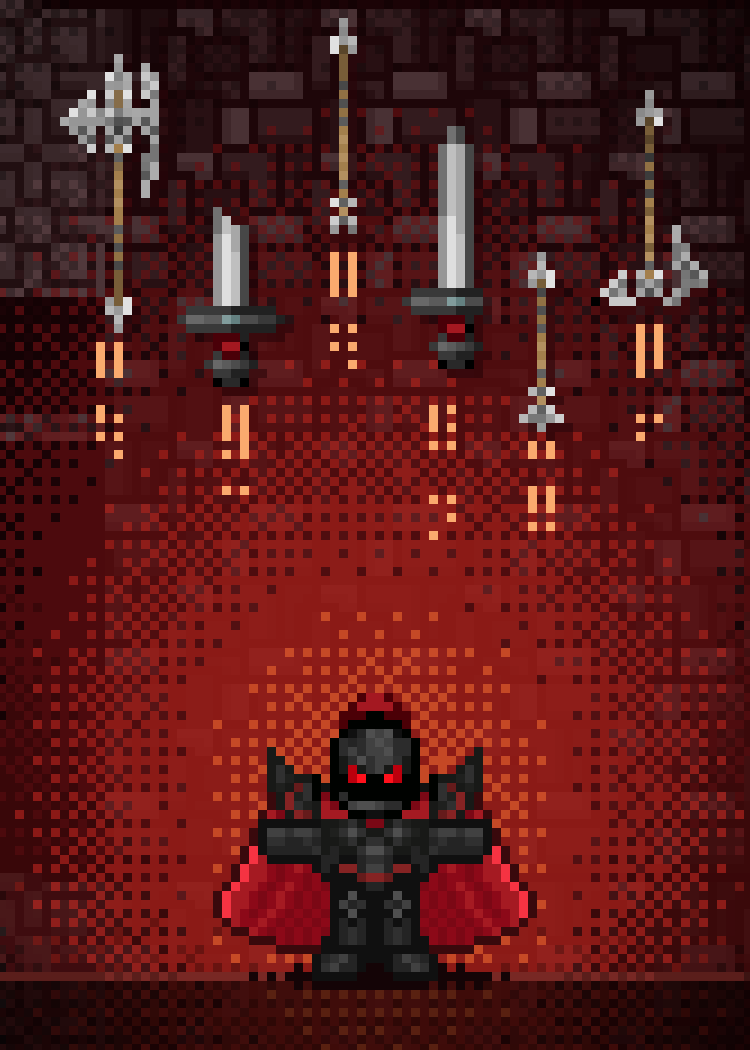
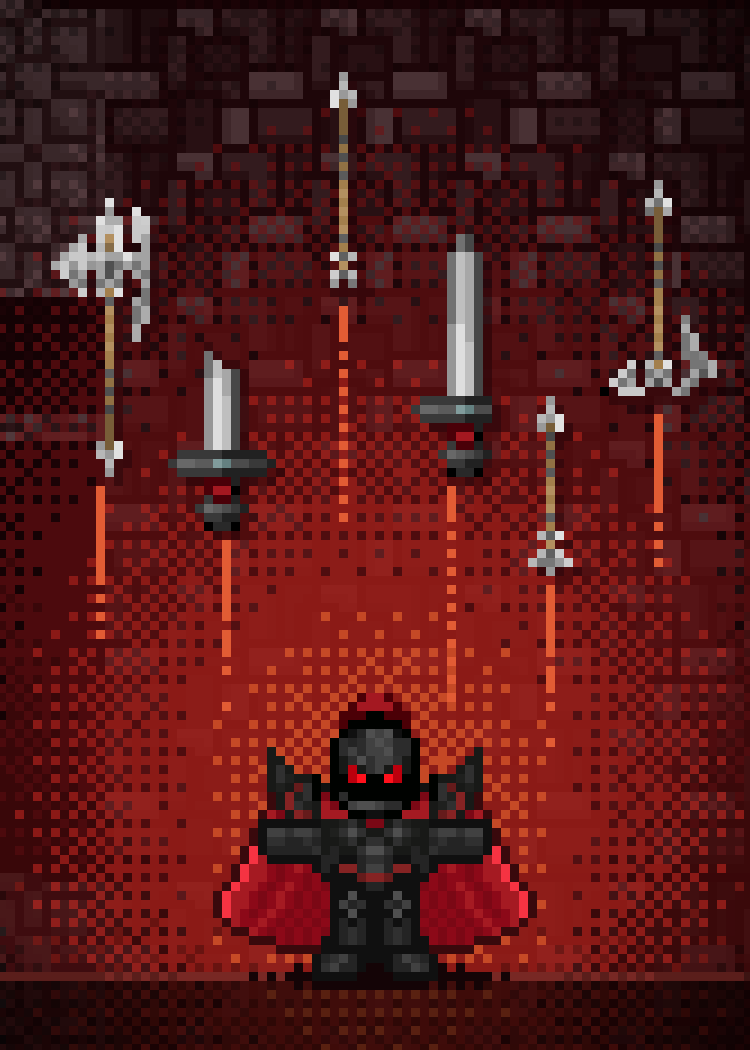
Sleeve-Entwürfe Runde 3b: Block E überarbeitet (27–32) + neu 55, 56; Zwischenstand
Claude-Session: https://claude.ai/code/session_01TEnvTzH2xD44R6Unjv7vDo

diff --git a/data/sleeve-proposals/runde3/generator/s06_kitsune_spiegel.py b/data/sleeve-proposals/runde3/generator/s06_kitsune_spiegel.py
@@ -1,70 +1,88 @@
 # -*- coding: utf-8 -*-
-"""Sleeve 06 – Der Spiegel der Kitsune.
+"""Sleeve 06 – Der Spiegel der Kitsune (Runde 3b überarbeitet: Spiegelteich statt Handspiegel).
 
-Nachts im Kirschhain schwebt der Heilige Spiegel über der Kitsune – doch das Glas zeigt nicht
-den Fuchs, sondern ihre verwandelte Gestalt, den Kirin (vgl. Karte „Kitsune Transformation“).
-Quellen (MotiveJapan.xcf): Sacred Mirror [226], Kitsune [223] + Ebene #129 [222]
-(Fuchsfeuer-Schwänze), Kirin [166], Ebene #17 [183] (Kirschbaum-Reihen), Ebene #13 [245]
-(Blütenboden), Ebene #75 [52] (Blütenblätter). Nachtverlauf, Lichthof und Glas-Tönung: selbst
-erstellt (gedithert); Kirin im Glas nur umgefärbt und auf die Glasfläche beschnitten.
+Nachts steht die Kitsune mit ihren Fuchsfeuer-Schwänzen am Ufer eines stillen Teichs zwischen zwei
+Kirschbäumen. Das Wasser spiegelt Bäume und Himmel – doch an ihrer Stelle zeigt die Spiegelung ihre
+wahre, verwandelte Gestalt: den Kirin (vgl. Karte „Kitsune Transformation“). Die Spiegelung ist
+halbtransparent (ganze Rasterzellen gemischt) und von Wellenlinien zerteilt.
+Kitsune und Kirin erscheinen im Block A nur noch hier (Doppelung mit 04 aufgelöst).
+
+Skalierung: ALLES einheitlich 5× (Szene im 5×-Raster = 50×70 Zellen): Himmel, Sterne, Kirschbäume,
+Ufer, Kitsune, Teich, Spiegelung (Kirin, Bäume), Lichtschein. Verläufe ohne Dithering.
+
+Quellen (MotiveJapan.xcf): Kitsune [223] + Ebene #129 [222] (Fuchsfeuer; vollständig lt. Sichtbar #25),
+Kirin [166] (vollständig lt. Sichtbar #20, dort nur von Blütenblättern überlagert), Ebene #17 [183]
+(Kirschbaum = unterster Baum einer Baumreihe). Himmel, Ufer, Wasser, Wellen, Lichtschein: selbst
+erstellt im 5×-Raster.
 """
 from a_util import *  # noqa
 
 B = 'MotiveJapan'
 cv = Canvas(250, 350)
+G = 5
+lo = lowres(G)                                        # 50×70
+W_, H_ = lo.w, lo.h
 
-mirror = sprite('a06_mirror', B, [226])
-kitsune = sprite('a06_kitsune', B, [223, 222])
-kirin = sprite('a06_kirin', B, [166])
-rows = sprite('a06_cherry_rows', B, [183])
-bank = layer(B, 245)
-petals = [q for q in parts(sprite('a06_petals', B, [52]), dil=0) if q.shape[0] * q.shape[1] >= 4]
+kitsune = sprite('a06_kitsune', B, [223, 222])        # 29×37 inkl. Fuchsfeuer
+kirin = sprite('a06_kirin', B, [166])                 # 31×26
+col = parts(sprite('a06_cherry_rows', B, [183]), dil=0)[0]
+tree = col[104:]
+tb = bbox(tree); tree = tree[tb[1]:tb[3], tb[0]:tb[2]]
+print(kitsune.shape, kirin.shape, tree.shape)
 
-# --- Hintergrund: nächtlicher Kirschhain -----------------------------------------------------------
-vgrad(cv, 0, 350, [(10, 6, 26), (30, 12, 44), (60, 20, 60)])
-col_l = parts(rows, dil=0)
-print('tree columns', [c.shape for c in col_l])
-dark = lambda s, f: tint(darken(s, f), (40, 0, 60), 0.3)
-# zwei Baumreihen links/rechts, hintere dunkler (Tiefe)
-put(cv, dark(col_l[1], 0.35), 36, -20, 2)
-put(cv, dark(col_l[2], 0.35), 150, -34, 2, fl=True)
-put(cv, dark(col_l[0], 0.55), -24, -60, 3)
-put(cv, dark(col_l[3], 0.55), 250 - col_l[3].shape[1] * 3 + 24, -40, 3, fl=True)
+WL = 38                                               # Uferlinie / Spiegelachse
 
-# Blütenboden
-ground = bank[160:200, 0:125].copy(); ground[..., 3] = 255
-put(cv, dark(ground, 0.5), 0, 292, 2)
+# --- Himmel ----------------------------------------------------------------------------------------------
+sgrad(lo, 0, WL, [(8, 4, 22), (24, 10, 46), (54, 22, 70)])
+rng = np.random.RandomState(8)
+for _ in range(16):
+    lo.px(rng.randint(0, W_), rng.randint(0, 24), (200, 180, 240) if rng.rand() < .4 else (110, 90, 150))
 
-# --- Heiliger Spiegel ------------------------------------------------------------------------------
-K = 8
-MX, MY = 125, 106
-glow(cv, MX, MY, 120, (150, 230, 255), 0.4)
-mx, my, mw, mh = put(cv, mirror, MX, MY, K, anchor='c')
-# Glasfläche = blaue Pixel des Spiegels
-c = mirror[..., :3].astype(int)
-glass = (mirror[..., 3] > 0) & (c[..., 2] > 150) & (c[..., 2] > c[..., 0] + 60)
-hi = glass & (c[..., 0] > 140)                        # helle Glanzstreifen
-G = up(glass[..., None].astype(np.uint8), K)[..., 0] > 0
-HI = up(hi[..., None].astype(np.uint8), K)[..., 0] > 0
-# Kirin (4×), kühl getönt, nur innerhalb der Glasfläche
-kr = tint(up(kirin, 4), (60, 170, 230), 0.22)
-layer_ = np.zeros((mh, mw, 4), np.uint8)
-kx, ky = (mw - kr.shape[1]) // 2, (mh - kr.shape[0]) // 2 + 10
-layer_[ky:ky + kr.shape[0], kx:kx + kr.shape[1]] = kr
-layer_[~G] = 0
-cv.paste(layer_, mx, my, alpha=0.92)
-# Glanzstreifen wieder darüber (halb), damit es Glas bleibt
-gl = up(mirror, K).copy(); gl[~HI] = 0
-cv.paste(gl, mx, my, alpha=0.35)
+# --- Kirschbäume am Ufer (nachtdunkel) ----------------------------------------------------------------------
+nt = lambda s, f: tint(darken(s, f), (50, 10, 70), 0.3)
+lo.paste(nt(tree, 0.55), -12, WL - tree.shape[0] + 1)
+lo.paste(nt(flip(tree), 0.55), W_ - tree.shape[1] + 12, WL - tree.shape[0] + 1)
 
-# --- Kitsune davor ---------------------------------------------------------------------------------
-glow(cv, 125, 280, 70, (255, 130, 60), 0.25)
-put(cv, kitsune, 125, 344, 5, anchor='b', shadow=0.45, sdx=0, sdy=1)
+# --- Ufer: dunkles Gras mit Blütenblättern (2 Zellen hoch) --------------------------------------------------
+for x in range(W_):
+    lo.px(x, WL - 1, (40, 18, 46))
+    lo.px(x, WL, (28, 12, 34))
+    if (x * 5) % 7 == 0: lo.px(x, WL - 1, (200, 110, 170))
 
-# Blütenblätter
-for (x, y), i in zip([(18, 70), (224, 40), (36, 200), (210, 170), (20, 270), (228, 262), (60, 20),
-                      (190, 300), (100, 214)], [5, 17, 29, 41, 53, 65, 77, 89, 101]):
-    put(cv, petals[i % len(petals)], x, y, 2)
+# --- Kitsune (Fuß auf der Uferlinie) + warmer Schein --------------------------------------------------------
+KX = 25
+sglow(lo, KX, WL - 14, 16, (255, 140, 70), 0.3)
+lo.paste(kitsune, KX - kitsune.shape[1] // 2, WL - kitsune.shape[0])
 
-frame(cv, [(12, 4, 20), (160, 60, 120), (250, 200, 230), (12, 4, 20)])
+# --- Teich: Spiegelung der Szene, aber mit dem Kirin statt der Kitsune ------------------------------------------
+above = lo.a[:WL].copy()
+# Kitsune aus der Spiegelvorlage entfernen: Bereich mit Himmel/Bäumen ohne Figur neu aufbauen
+clean = Canvas(W_, WL)
+sgrad(clean, 0, WL, [(8, 4, 22), (24, 10, 46), (54, 22, 70)])
+clean.paste(nt(tree, 0.55), -12, WL - tree.shape[0] + 1)
+clean.paste(nt(flip(tree), 0.55), W_ - tree.shape[1] + 12, WL - tree.shape[0] + 1)
+sglow(clean, KX, WL - 14, 16, (80, 200, 230), 0.3)                          # kühles Licht statt Feuer
+refl = clean.a[::-1].astype(float)
+water = (refl * 0.45 + np.array([10, 14, 50]) * 0.55).astype(np.uint8)
+n = min(H_ - WL - 1, water.shape[0])
+lo.a[WL + 1:WL + 1 + n] = water[:n]
+
+# Kirin gespiegelt (auf dem Kopf), Füße an der Uferlinie, halbtransparent, bläulich
+kr = tint(kirin[::-1].copy(), (90, 200, 255), 0.25)
+kx, ky = KX - kr.shape[1] // 2, WL + 1
+wave = Canvas(W_, H_ - WL - 1)
+wave.a[:] = lo.a[WL + 1:]
+# zeilenweise versetzt einsetzen (Wellen): jede 4. Zeile um eine Zelle verschoben
+for r in range(kr.shape[0]):
+    dx = 1 if (r // 3) % 2 else 0
+    row = kr[r:r + 1]
+    lo.paste(row, kx + dx, ky + r, alpha=0.7)
+
+# Wellenlinien quer über den Teich (hell, unterbrochen)
+for y in range(WL + 3, H_, 4):
+    for x in range(W_):
+        if (x + y * 3) % 11 < 4:
+            lo.a[y, x] = (lo.a[y, x] * 0.5 + np.array([150, 170, 230]) * 0.5).astype(np.uint8)
+
+blow(cv, lo, G)
 print(save(cv, '06_kitsune_spiegel.png'))

diff --git a/data/sleeve-proposals/runde3/generator/s05_idej_mondduell.py b/data/sleeve-proposals/runde3/generator/s05_idej_mondduell.py
@@ -1,19 +1,18 @@
 # -*- coding: utf-8 -*-
 """Sleeve 05 – Mondduell der Idej-Lords (Runde 3b überarbeitet).
 
-Auf einem Hügel unter einem Kirschbaum stehen sich vor dem riesigen Vollmond Nobunakin (rot, mit
+Auf einem kahlen Hügelkamm stehen sich vor dem riesigen Vollmond Nobunakin (rot, mit
 erhobener geschwungener Klinge) und der geisterhaft schwebende Shoguwana (blau leuchtend) gegenüber.
 Der helle Mond steht direkt hinter Nobunakin, damit der dunkelrote Lord als klare Form vor hellem
 Grund steht (statt als „rote Masse“ vor rotem/rosa Grund); Shoguwana leuchtet vor dem Nachthimmel.
 (Todugawin entfällt: seine Ebene „ARBEITE HIER“ ist unfertig, die Stangenwaffe läuft verwaschen aus.)
 
 Skalierung: ALLES einheitlich 5× (Szene im 5×-Raster = 50×70 Zellen): Himmel, Sterne, Mond,
-Kirschbäume, Hügel, beide Lords, Lichtschein, Blütenblätter.
+Hügel, beide Lords, Lichtschein. Verläufe ohne Dithering (jede Rasterzelle einfarbig).
 
 Quellen (MotiveJapan.xcf): Ebene #34 [150] (Klinge) + Ebene #41 [152] + Ebene #39 [154] (Körper) +
 Ebene #40 [155] (Augen) = Nobunakin mit Klinge (vgl. Karte „Idej Blade – Hakai“), Shoguwana [61]
-(vollständig, geisterhafter Schweif statt Füßen), Ebene #60 [174] (Kirschbäume), Ebene #75 [52]
-(Blütenblätter). Himmel, Mond, Hügel und Lichtschein: selbst erstellt im 5×-Raster.
+(vollständig, geisterhafter Schweif statt Füßen). Himmel, Mond, Hügel und Lichtschein: selbst erstellt im 5×-Raster.
 """
 from a_util import *  # noqa
 
@@ -25,10 +24,7 @@ W_, H_ = lo.w, lo.h
 
 nob = sprite('a05_nobunakin', B, [150, 152, 154, 155])  # 23×37
 shog = sprite('a05_shoguwana', B, [61])                 # 16×29
-trees = parts(sprite('a05_cherries', B, [174]), dil=0)
-tree = max(trees, key=lambda p: p.shape[0])
-petals = [q for q in parts(sprite('a05_petals', B, [52]), dil=0) if 2 <= q.shape[0] * q.shape[1] <= 4]
-print(nob.shape, shog.shape, [t.shape for t in trees])
+print(nob.shape, shog.shape)
 
 # --- Nachthimmel + Sterne ---------------------------------------------------------------------------------
 sgrad(lo, 0, H_, [(6, 6, 24), (14, 14, 46), (34, 26, 78), (60, 36, 92)])
@@ -52,10 +48,7 @@ for (cx, cy, r) in [(9, 30, 3.5), (22, 27, 2.5), (29, 38, 2), (4, 44, 2)]:
         for x in range(int(cx - r), int(cx + r) + 1):
             if math.hypot(x + .5 - cx, y + .5 - cy) < r: lo.a[y, x] = (232, 224, 204)
 
-# --- Kirschbäume links/rechts (nachtdunkel) ------------------------------------------------------------------
 GY = 60                                                  # Hügelkamm
-dk = lambda s, f: tint(darken(s, f), (40, 10, 60), 0.3)
-lo.paste(dk(tree, 0.5), W_ - tree.shape[1] // 2 + 4, GY - tree.shape[0] + 2)
 
 # --- Hügel (selbst gezeichnet, flacher Bogen) -----------------------------------------------------------------
 for x in range(W_):
@@ -73,10 +66,6 @@ SXc = 38
 sy = GY + int(round(((SXc - 25) / 25.0) ** 2 * 3))
 sglow(lo, SXc, sy - 15, 13, (80, 200, 255), 0.35)
 lo.paste(shog, SXc - shog.shape[1] // 2, sy - shog.shape[0] - 2)   # schwebt über dem Kamm
-
-# Blütenblätter im Wind
-for (x, y), i in zip([(32, 16), (28, 47), (42, 8), (22, 66)], [1, 9, 19, 30]):
-    lo.paste(petals[i % len(petals)], x, y)
 
 blow(cv, lo, G)
 print(save(cv, '05_idej_mondduell.png'))

diff --git a/data/sleeve-proposals/runde3/generator/s26_weapon_storm.py b/data/sleeve-proposals/runde3/generator/s26_weapon_storm.py
@@ -63,22 +63,21 @@ for k in ('arrow2',):
     s = up_[k]
     if s[:4, ..., :3].sum() < s[-4:, ..., :3].sum(): up_[k] = s[::-1]
 
-def speed(x, y0, y1, col=(250, 170, 110)):
-    """Tempo-Linie unter einer Waffe: unterbrochene 1-px-Linie, nach unten ausdünnend."""
+def speed(x, y0, y1, col=(226, 92, 52)):
+    """Tempo-Linie unter einer Waffe: 1-px-Linie, nach unten geditherte Ausdünnung."""
     for y in range(y0, min(y1, H)):
         f = (y - y0) / max(1, y1 - y0)
-        if BAYER8[y % 8, x % 8] > f * 1.1 and (y // 3) % 3 != 2:
+        if BAYER8[y % 8, x % 8] > f * 1.05:
             nc.a[y, x] = col
 
 # Salve: (Waffe, x-Mitte, obere Kante) – gestaffelt, nicht spiegelgleich
-volley = [('halbA', 12, 6), ('sword2', 26, 22), ('arrow2', 38, 2), ('swordA', 49, 14),
-          ('arrow3', 60, 28), ('halb2', 72, 10)]
+volley = [('halbA', 11, 22), ('sword2', 25, 38), ('arrow2', 38, 8), ('swordA', 50, 26),
+          ('arrow3', 61, 44), ('halb2', 73, 20)]
 for k, cx, top in volley:
     s = up_[k]
     x = cx - s.shape[1] // 2
     y = top
-    for dx in (s.shape[1] // 2 - 1, s.shape[1] // 2 + 1):
-        speed(x + dx, y + s.shape[0] + 1, y + s.shape[0] + 22)
+    speed(x + s.shape[1] // 2, y + s.shape[0] + 1, y + s.shape[0] + 30)
     nc.paste(silhouette(s, (40, 4, 8)), x + 1, y + 1, alpha=0.6)
     nc.paste(s, x, y)
 

diff --git a/data/sleeve-proposals/runde3/notes_E.md b/data/sleeve-proposals/runde3/notes_E.md
@@ -1,13 +1,30 @@
-# Block E – Sleeves 27–32 (Quellen v. a. MotiveMoe.xcf / MotiveBoons.xcf)
+# Block E – Sleeves 27–32, 55–56 (Runde 3b; Quellen v. a. MotiveMoe.xcf / MotiveBoons.xcf)
 
-NN | Titel | Idee | Quellen
----|---|---|---
-27 | Idol Live | Blick aus dem dunklen Publikum: die Sängerin mit Schmetterlingsflügeln und Heiligenschein (4×) singt auf der Holzbühne im Kreuzlicht zweier Scheinwerfer, dahinter ein rosa Strahlenkranz und Noten; vorne Fans von hinten als Silhouetten mit leuchtenden Leuchtstäben, rechts der Superfan (5×) mit Jubelstrichen | MotiveMoe: Singing #2+#1 [479, 480], Singing #3 [474] (Fans), Megu #3 [463] (Superfan), Ebene #82/#81 [263, 264] (Strahlen), Ebene #174 [129] (Bühnendielen), Ebene #178 [126] (Noten); Scheinwerfer gedithert
-28 | Fun-Fun Manege | Im rot-weißen Zirkuszelt präsentiert der Totenkopf-Direktor (6×, Vordergrund) seine unheimlichen Artisten in der Manege: blutender Masken-Elefant (3×), Clown auf dem Ball, maskierter Strongman; Ballons an der Zeltkuppel, drei Scheinwerfer | MotiveMoe: Fun-Fun Director #2/#1/– [25, 27, 28], Fun-Fun Elephant [10–14], Fun-Fun Strongman #1/– [18, 19], Fun Circus Clown #1 [36], Fun-Fun Strongman #6 [23] (Ballons); Zeltbahnen, Manege, Licht selbst gedithert
-29 | Drachenflug | Über den schwebenden Inseln: der Blue-Ice Dragon (4×) speit Eisatem auf den Red Dragoneer auf der fernen Relic-Insel, Sorbereus (3×) gleitet vorbei, im Vordergrund brüllt der Green Dragoneer (5×) auf der Garteninsel; Tiefe durch Dunst und Maßstab | MotiveMoe: Hintergrund [553], Relic-Insel [478], Kleine Insel [447], Ebene #168 [164], Red Dragoneer [5], Sorbereus [299], Green Dragoneer #1 [2], Blue-Ice Dragon + Ebene #121 [203, 204]
-30 | Besuch aus der Tiefe | Vom Weltall (rote Sonne, Mutterschiff 3×) gedithert übergehend in den Mo-Himmel: Life-Searcher-Invasoren ziehen mit grünen Suchstrahlen einen Gartenzwerg und einen jubelnden Hasen von der Hausinsel hoch | MotiveBoons: Ebene #21 [4] (Sterne/Sonne), Ebene #35 [25] (Mutterschiff), Ebene #36 [22] (Invasoren), Ebene #37 [23] (Strahlform/-farbe); MotiveMoe: Hintergrund [553], Hausinsel [457], Inconspicuous Lawn [212], Cheering Rabbit [442]
-31 | Phönix-Aufstieg | Prinzessin Mary in Phönixgestalt (3×) steigt mit Feuerschweif vor Flammenkranz und Strahlenkranz aus der rosa getönten Tempelinsel in den rosa Himmel, kleine Feuervögel begleiten sie | MotiveMoe: Hintergrund-Kopie #1 [556], Mary-Kopie + Mary #1 [486, 487], Mary #3 [488] (Flammenkranz), Phoenix Tackle #2 [417] (Schweif, gedreht), Relic-Insel [478], Ebene #105 [220]; Strahlenkranz gedithert
-32 | Leiter zum Himmel | Vertigo-Blick: am Ende des Steinpfads hängt die Leiter von der Kante der Hausinsel ins Nichts, der Kletterer (3×) steigt herauf, oben wartet der Himmelsarchäologe mit Spitzhacke, darunter nur Wolken und Fledermaus-Häschen | MotiveMoe: Hausinsel + Ladder to the Sky [457, 449] (Originallage wie auf der Karte), Sky Archeologist [461], Hintergrund [553], Ebene #64 [122] (Wolken), Cute Bunny #1 [429]
+NN | Titel | Idee | Quellen | Skalierung
+---|---|---|---|---
+27 | Riss im Himmel (neu, ersetzt „Idol Live“ – Konzert-Doppelung) | Der Taghimmel bricht auf: dunkelroter Strudel mit rot glühenden Sprüngen, der Himmel ringsum verdunkelt sich, vier niedliche Wesen purzeln heraus, unten eine kleine Himmelsinsel als Maßstab | MotiveMoe: Hintergrund [553], Hole in the Sky #2 [360] (Sprünge, 2× gesetzt), Hole in the Sky #1 [359] (Wesen), Kleine Insel [447]; Strudel selbst gezeichnet (5 Rotstufen, Dithering) | alles 3× (natives Raster 84×117, als Ganzes verdreifacht)
+28 | Fun-Fun Manege | Im rot-weißen Zelt präsentiert der Totenkopf-Direktor (Vordergrund) seine Artisten: Masken-Elefant jetzt auf seiner Zirkustrommel, Clown auf dem Ball, Strongman jetzt komplett mit Keule, Hand und Kette („1T“-Aufschrift übermalt); Ballons an der Kuppel | MotiveMoe: Director [25, 27, 28], Elephant [10–14] + Trommel aus [15], Strongman [17, 18, 19, 21] + Keule aus [20], Clown [36], Ballons aus [23]; Zelt/Manege/Licht selbst gezeichnet | Zelt, Manege, Licht, Ballons, Artisten 3×; Direktor 6× (angeschnittener Vordergrund)
+29 | Drachenflug | Blue-Ice Dragon und Sorbereus ziehen über eine Himmelsinsel mit Wolkenbank, auf der Green und Red Dragoneer stehen (Eisatem entfernt – traf vorher nichts) | MotiveMoe: Hintergrund [553], Ebene #64 [122] (Wolken), Kleine Insel [447], Blue-Ice Dragon [203], Sorbereus [299], Green Dragoneer #1 [2], Red Dragoneer [5] | alles 3× (vorher 1×/2×/3×/4×/5× gemischt)
+30 | Besuch aus der Tiefe | Nachts: rote Sonne und Mutterschiff im All, Life-Searcher ziehen mit grünen Strahlen Gartenzwerg und Cheerleader-Häschen von einer kleinen Himmelsinsel | MotiveBoons: Ebene #21 [4], #35 [25], #36 [22] (+ Strahlform #37 [23]); MotiveMoe: Hintergrund [553], Kleine Insel [447], Inconspicuous Lawn [212], Cheering Rabbit [442] (Pompom ergänzt, s. u.) | alles 2× (vorher Insel/Himmel 1×, Schiff 3×)
+31 | Phönix-Aufstieg | Prinzessin Mary in Phönixgestalt vor rot abgesetztem Flammenkranz und Strahlenkranz im rosa Himmel, unter ihr die Säulen des Tempelplatzes, Feuervögel begleiten sie (gedrehter „Blutstropfen“-Schweif entfernt) | MotiveMoe: Hintergrund-Kopie #1 [556], Mary-Kopie + Mary #1 [486, 487], Mary #3 [488], Relic-Insel [478], Ebene #105 [220]; Strahlen gedithert | alles 3× (vorher 1×/2×/3× gemischt)
+32 | Leiter zum Himmel | Vertigo-Blick über die Inselkante: Leiter ins Nichts, Kletterer steigt herauf; der Himmelsarchäologe gräbt jetzt links vom Pfad auf festem Gras (Spitzhacke im Boden statt über der Kante), Fledermaus-Häschen unter der Insel | MotiveMoe: Hausinsel + Ladder to the Sky [457, 449], Mine Mine Mine [459] (grabender Archäologe), Hintergrund [553], Ebene #64 [122], Cute Bunny #1 [429] | alles 3× (vorher Himmel 1×, Häschen 2×/1×)
+55 | Zwei Schnitterinnen (neu) | Licht und Schatten: Lizbeth (goldene Sense) und ihr dunkles Gegenstück (rote Sense) stehen wappenartig gespiegelt vorn im Mittelgang, die Sensenblätter rahmen den Altar; dahinter die abgedunkelte Kathedrale mit Orgel und Lichtsäulen | MotiveBoons: Ebene #12 [62] (Kathedrale, eingebackene Nebenfigur per Spiegelung entfernt), Ebene #13 + #15 [60, 59] (Lizbeth, Funkenstriche der Sense entfernt), Ebene #16 [57] | Kathedrale 2× (Hintergrund), Schnitterinnen 5× (Vordergrund am unteren Rand)
+56 | Der Herzbogen (neu) | Stillleben bei Nacht: der Heart-Shaped Bow ruht auf dem Altarstein im Säulenheiligtum, hinter ihm eine Orakel-Statue; nur der Altar liegt im Licht (6 harte Helligkeitsstufen), rosa Herzen steigen auf | MotiveMoe: Relic-Insel [478], Ebene #8 [145] (Statuen), Heart-Shaped Bow [467], Ebene #2 [468] (Herzen) – Originallage wie Szene „Sichtbar #14“ | alles 3×
 
-Sprites: generator/sprites3/e27_…–e32_…. Skripte: generator/s27_idol.py, s28_circus.py, s29_dragons.py,
-s30_abduction.py, s31_phoenix.py, s32_ladder.py.
+## Regel-B-Prüfung (Vollständigkeit)
+Werkzeug: `generator/e_util.py` – `scenes_for` (Szene, in der die Figur vorkommt), `extra_layers` (ALLE Ebenen der
+Datei, deren Pixel im Szenenabzug innerhalb der erweiterten Figurenbox sichtbar sind) und `compare`
+(Szene | Sprite nebeneinander). Befunde:
+- 30 Cheering Rabbit: kein Vorlagen-Fehler, sondern Zuschnitt – die Ebene zeigt drei Häschen, beim rechten
+  wurde vorher an Spalte 48 abgeschnitten, der linke Pompom verlor 3 Spalten (und liegt teils hinter dem Pompom
+  des mittleren Häschens). Figur ist symmetrisch → linke Arm-/Pompom-Hälfte aus der rechten gespiegelt.
+- 28 Strongman: Keule (Teil von Ebene 20), Hand (21) und Kette (17) fehlten; Elefant: Trommel (Teil von 15) fehlte.
+- 55 Lizbeth: Sense ist eigene Ebene (59), ergänzt; Funkenstriche der Sense in der Szene unsichtbar → entfernt.
+- Geprüft und vollständig: Director, Clown, Mary, Blue-Ice Dragon (+Atem 204 bewusst weggelassen), Sorbereus,
+  Green/Red Dragoneer, Gartenzwerg, Mutterschiff, Invasoren, Archäologe (459), Leiter/Kletterer, Hole-Wesen (359),
+  dunkle Schnitterin (57), Herzbogen (467).
+
+Hilfen: `generator/e_util.py` (`upcanvas`/`small_canvas`: Szene im groben Raster bauen und als Ganzes skalieren →
+einheitliche Pixelgröße inkl. Dithering/Vignette). Sprites: generator/sprites3/e27_…–e56_…. Skripte:
+s27_riss_im_himmel.py, s28_circus.py, s29_dragons.py, s30_abduction.py, s31_phoenix.py, s32_ladder.py,
+s55_zwei_schnitterinnen.py, s56_herzbogen.py.
